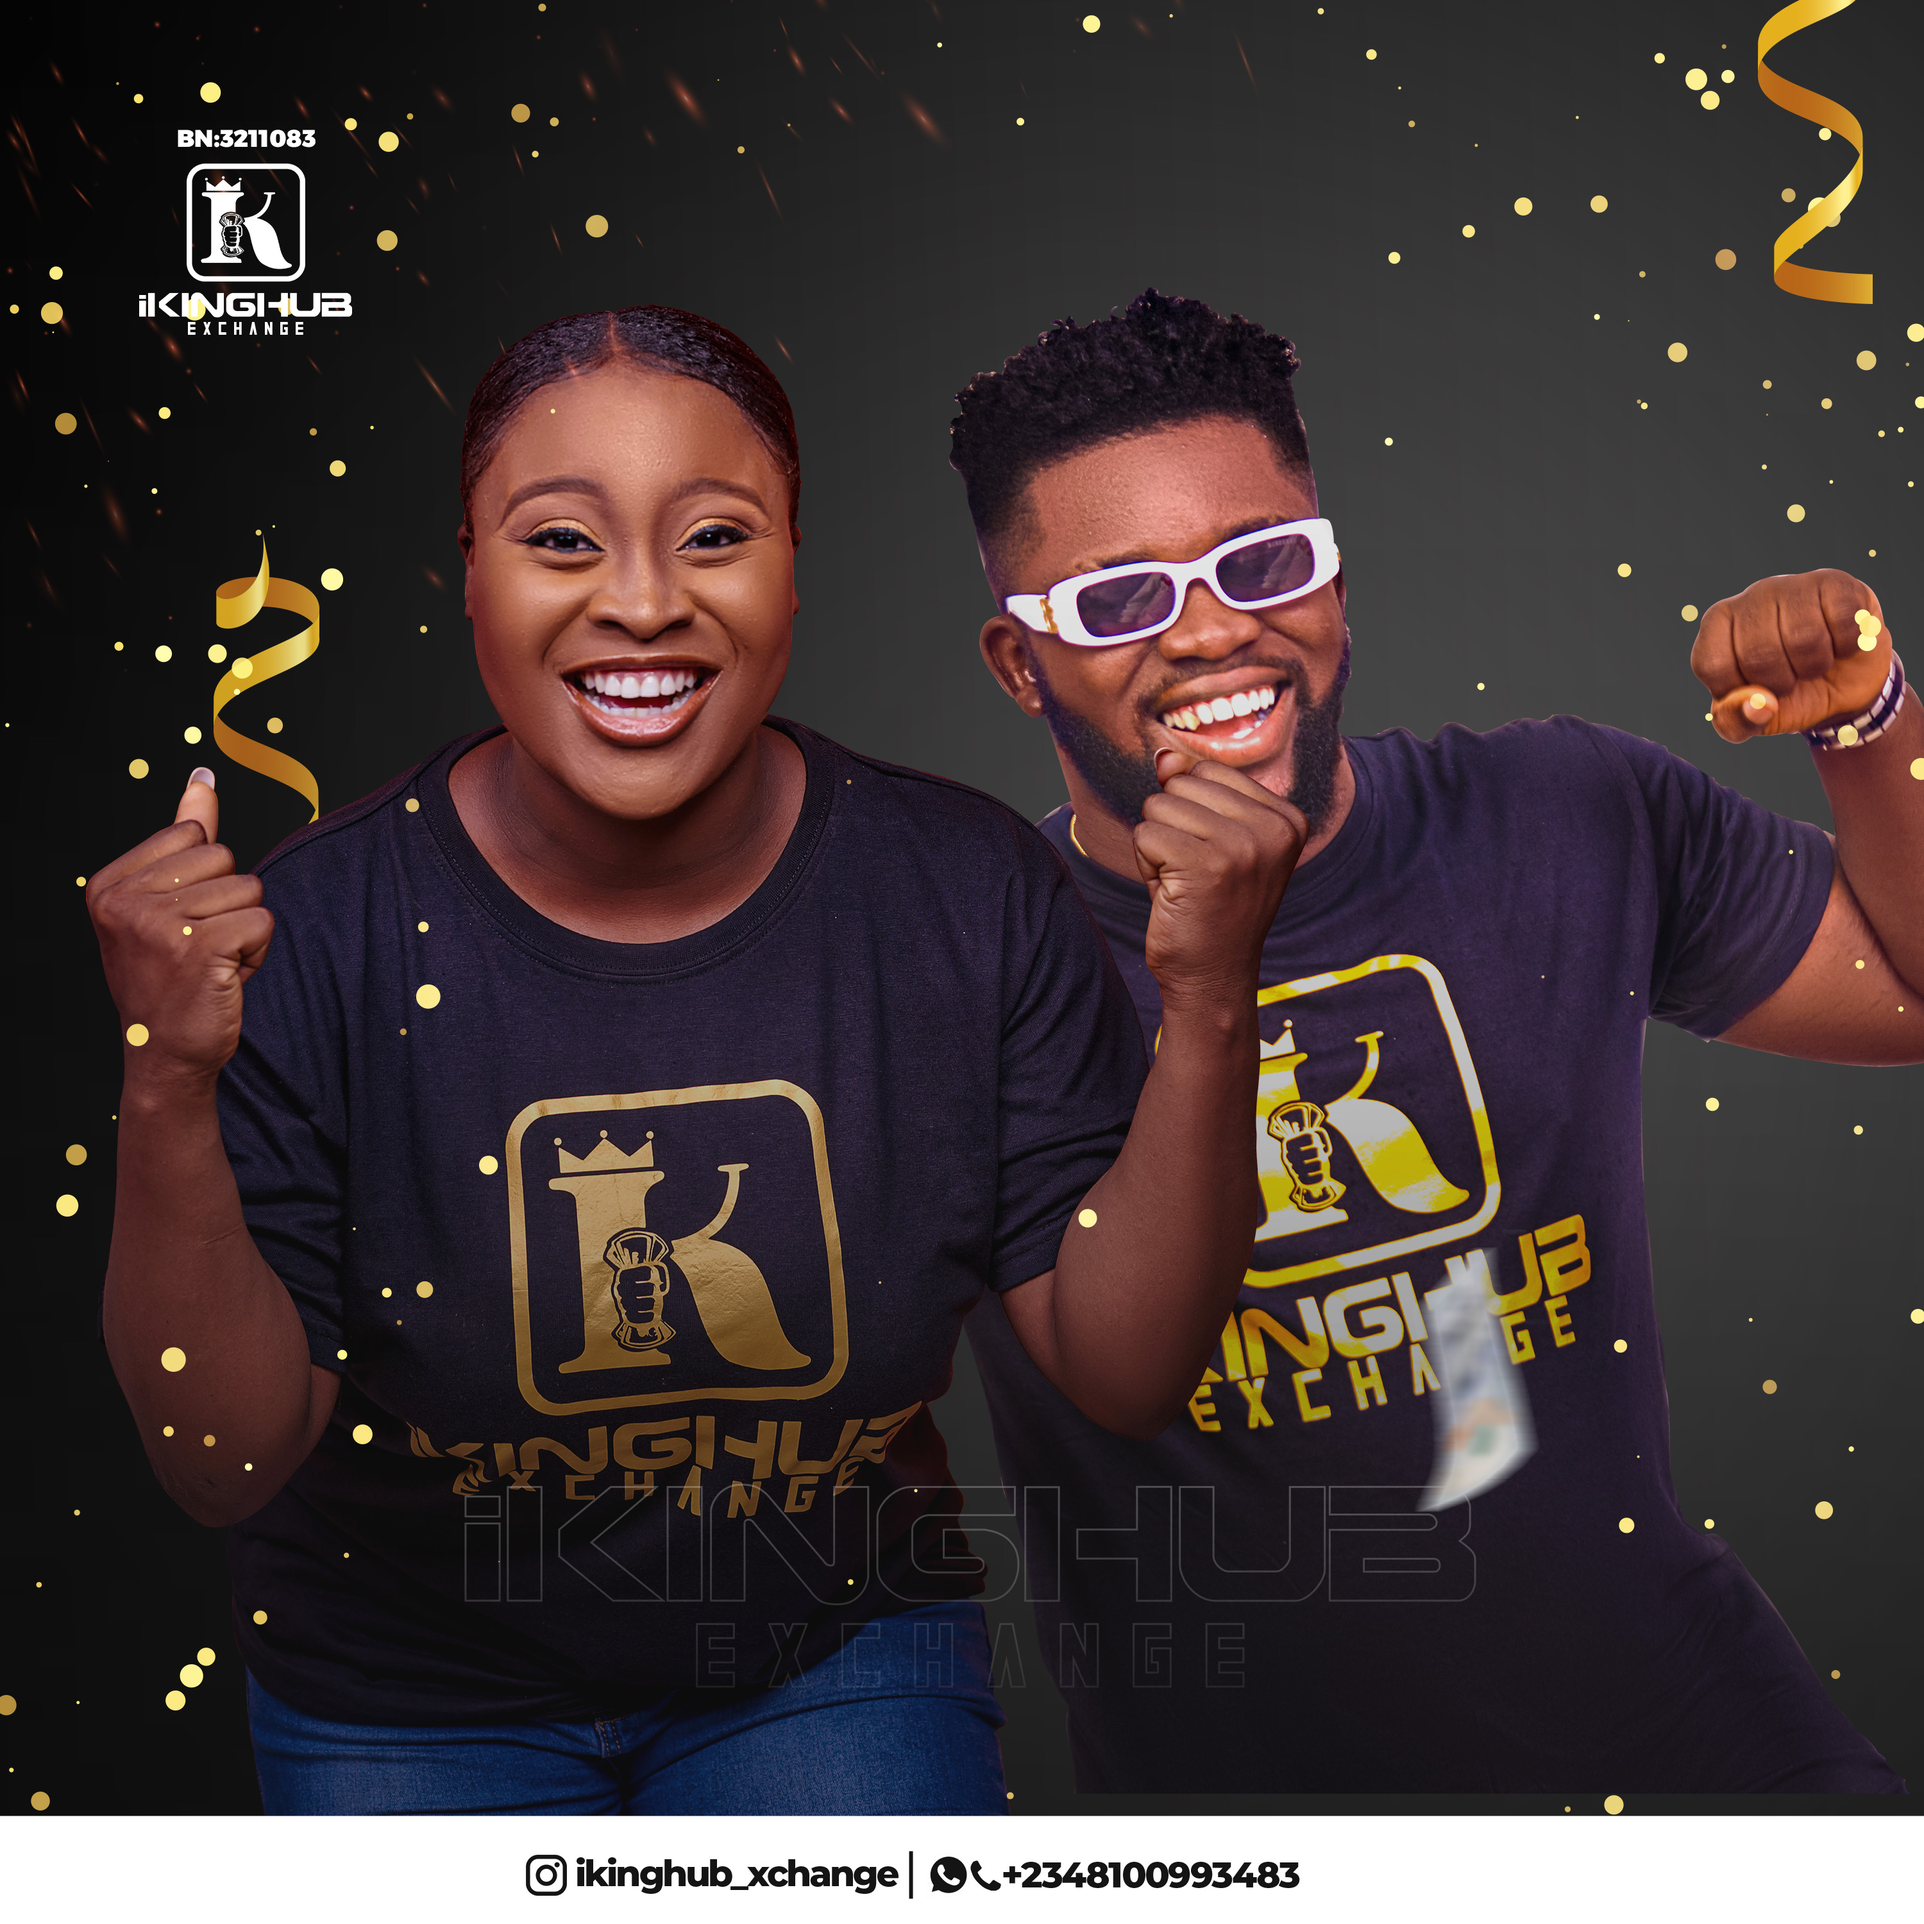
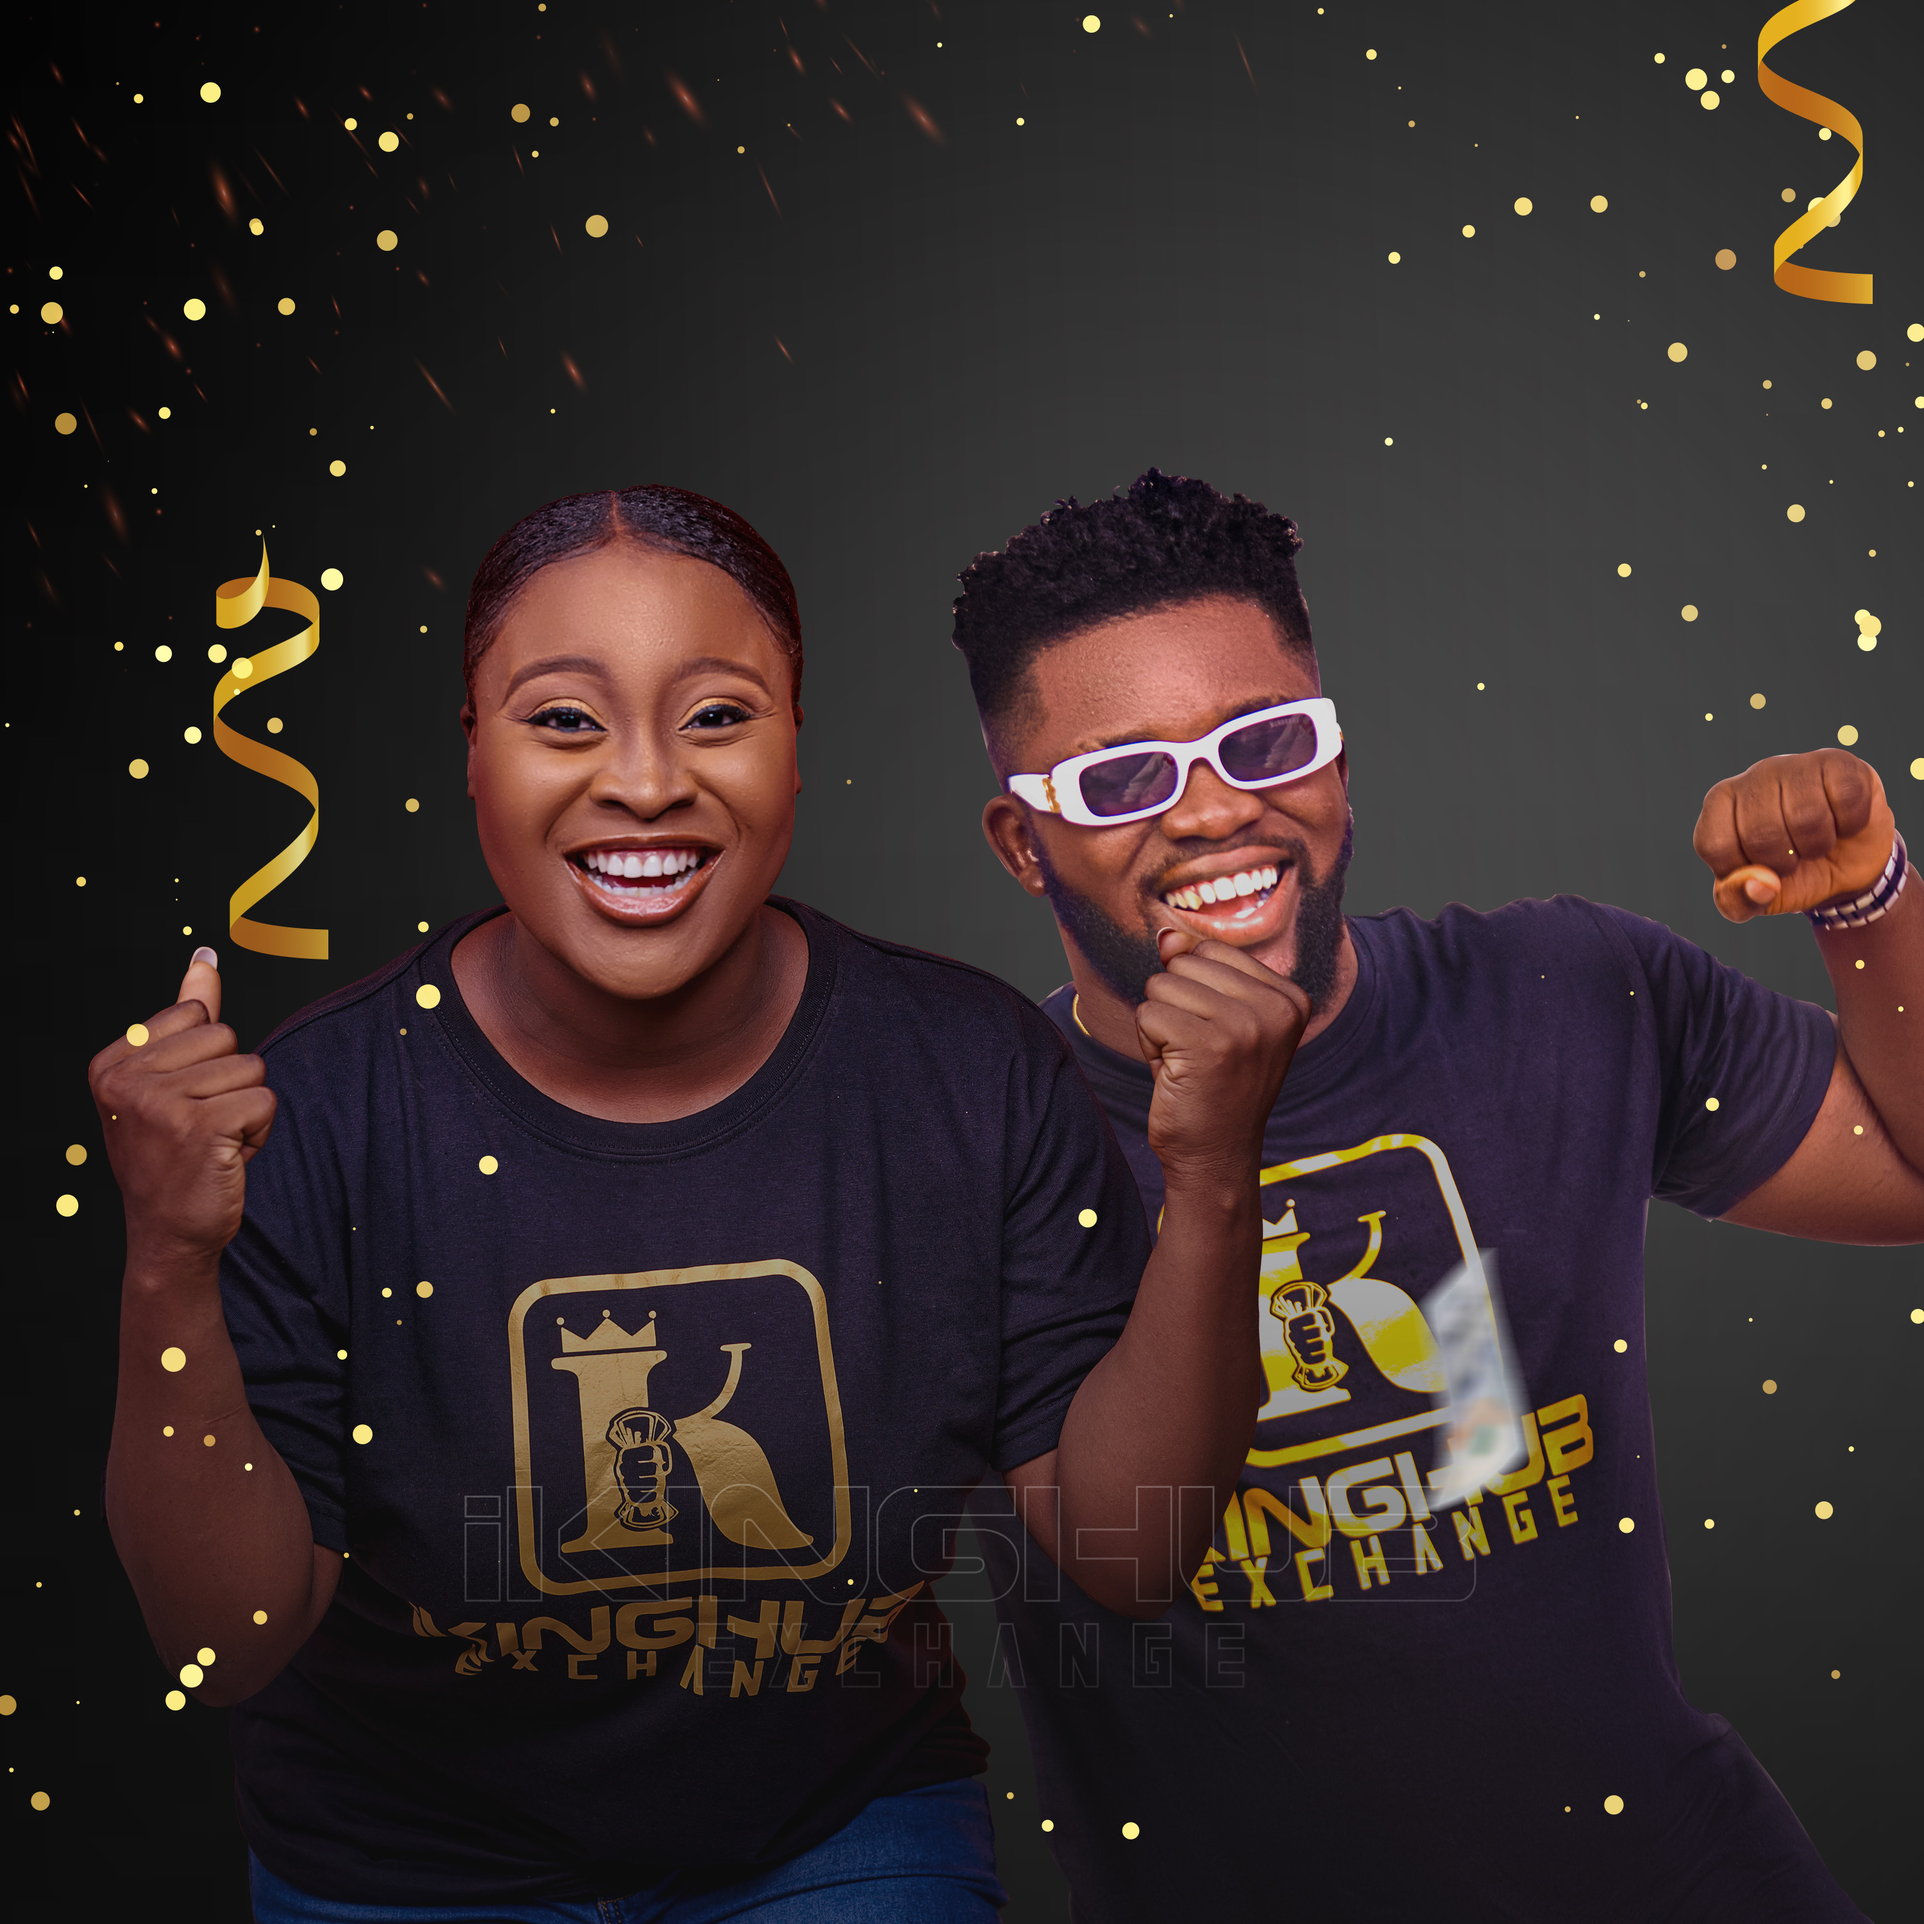
hero section adjusted

diff --git a/index.html b/index.html
@@ -145,12 +145,6 @@
     <section
       class="custom-pt-1 custom-pb-1 hero-area"
       data-bg-img=""
-      style="
-        background-size: cover;
-        background-repeat: no-repeat;
-        background-attachment: fixed;
-        background-position: center 0px;
-      "
     >
       <div class="container">
         <div class="row align-items-center">

diff --git a/assets/css/spacing.css b/assets/css/spacing.css
@@ -3629,3 +3629,9 @@
 .z-index-1 { z-index: 99; }
 .mt-n15 { margin-top: -15rem !important; }
 .mt-n20 { margin-top: -20rem !important; }
+
+@media (max-width: 767px) { 
+	.custom-pb-1{
+		padding-bottom: 0rem !important;
+	}
+}
